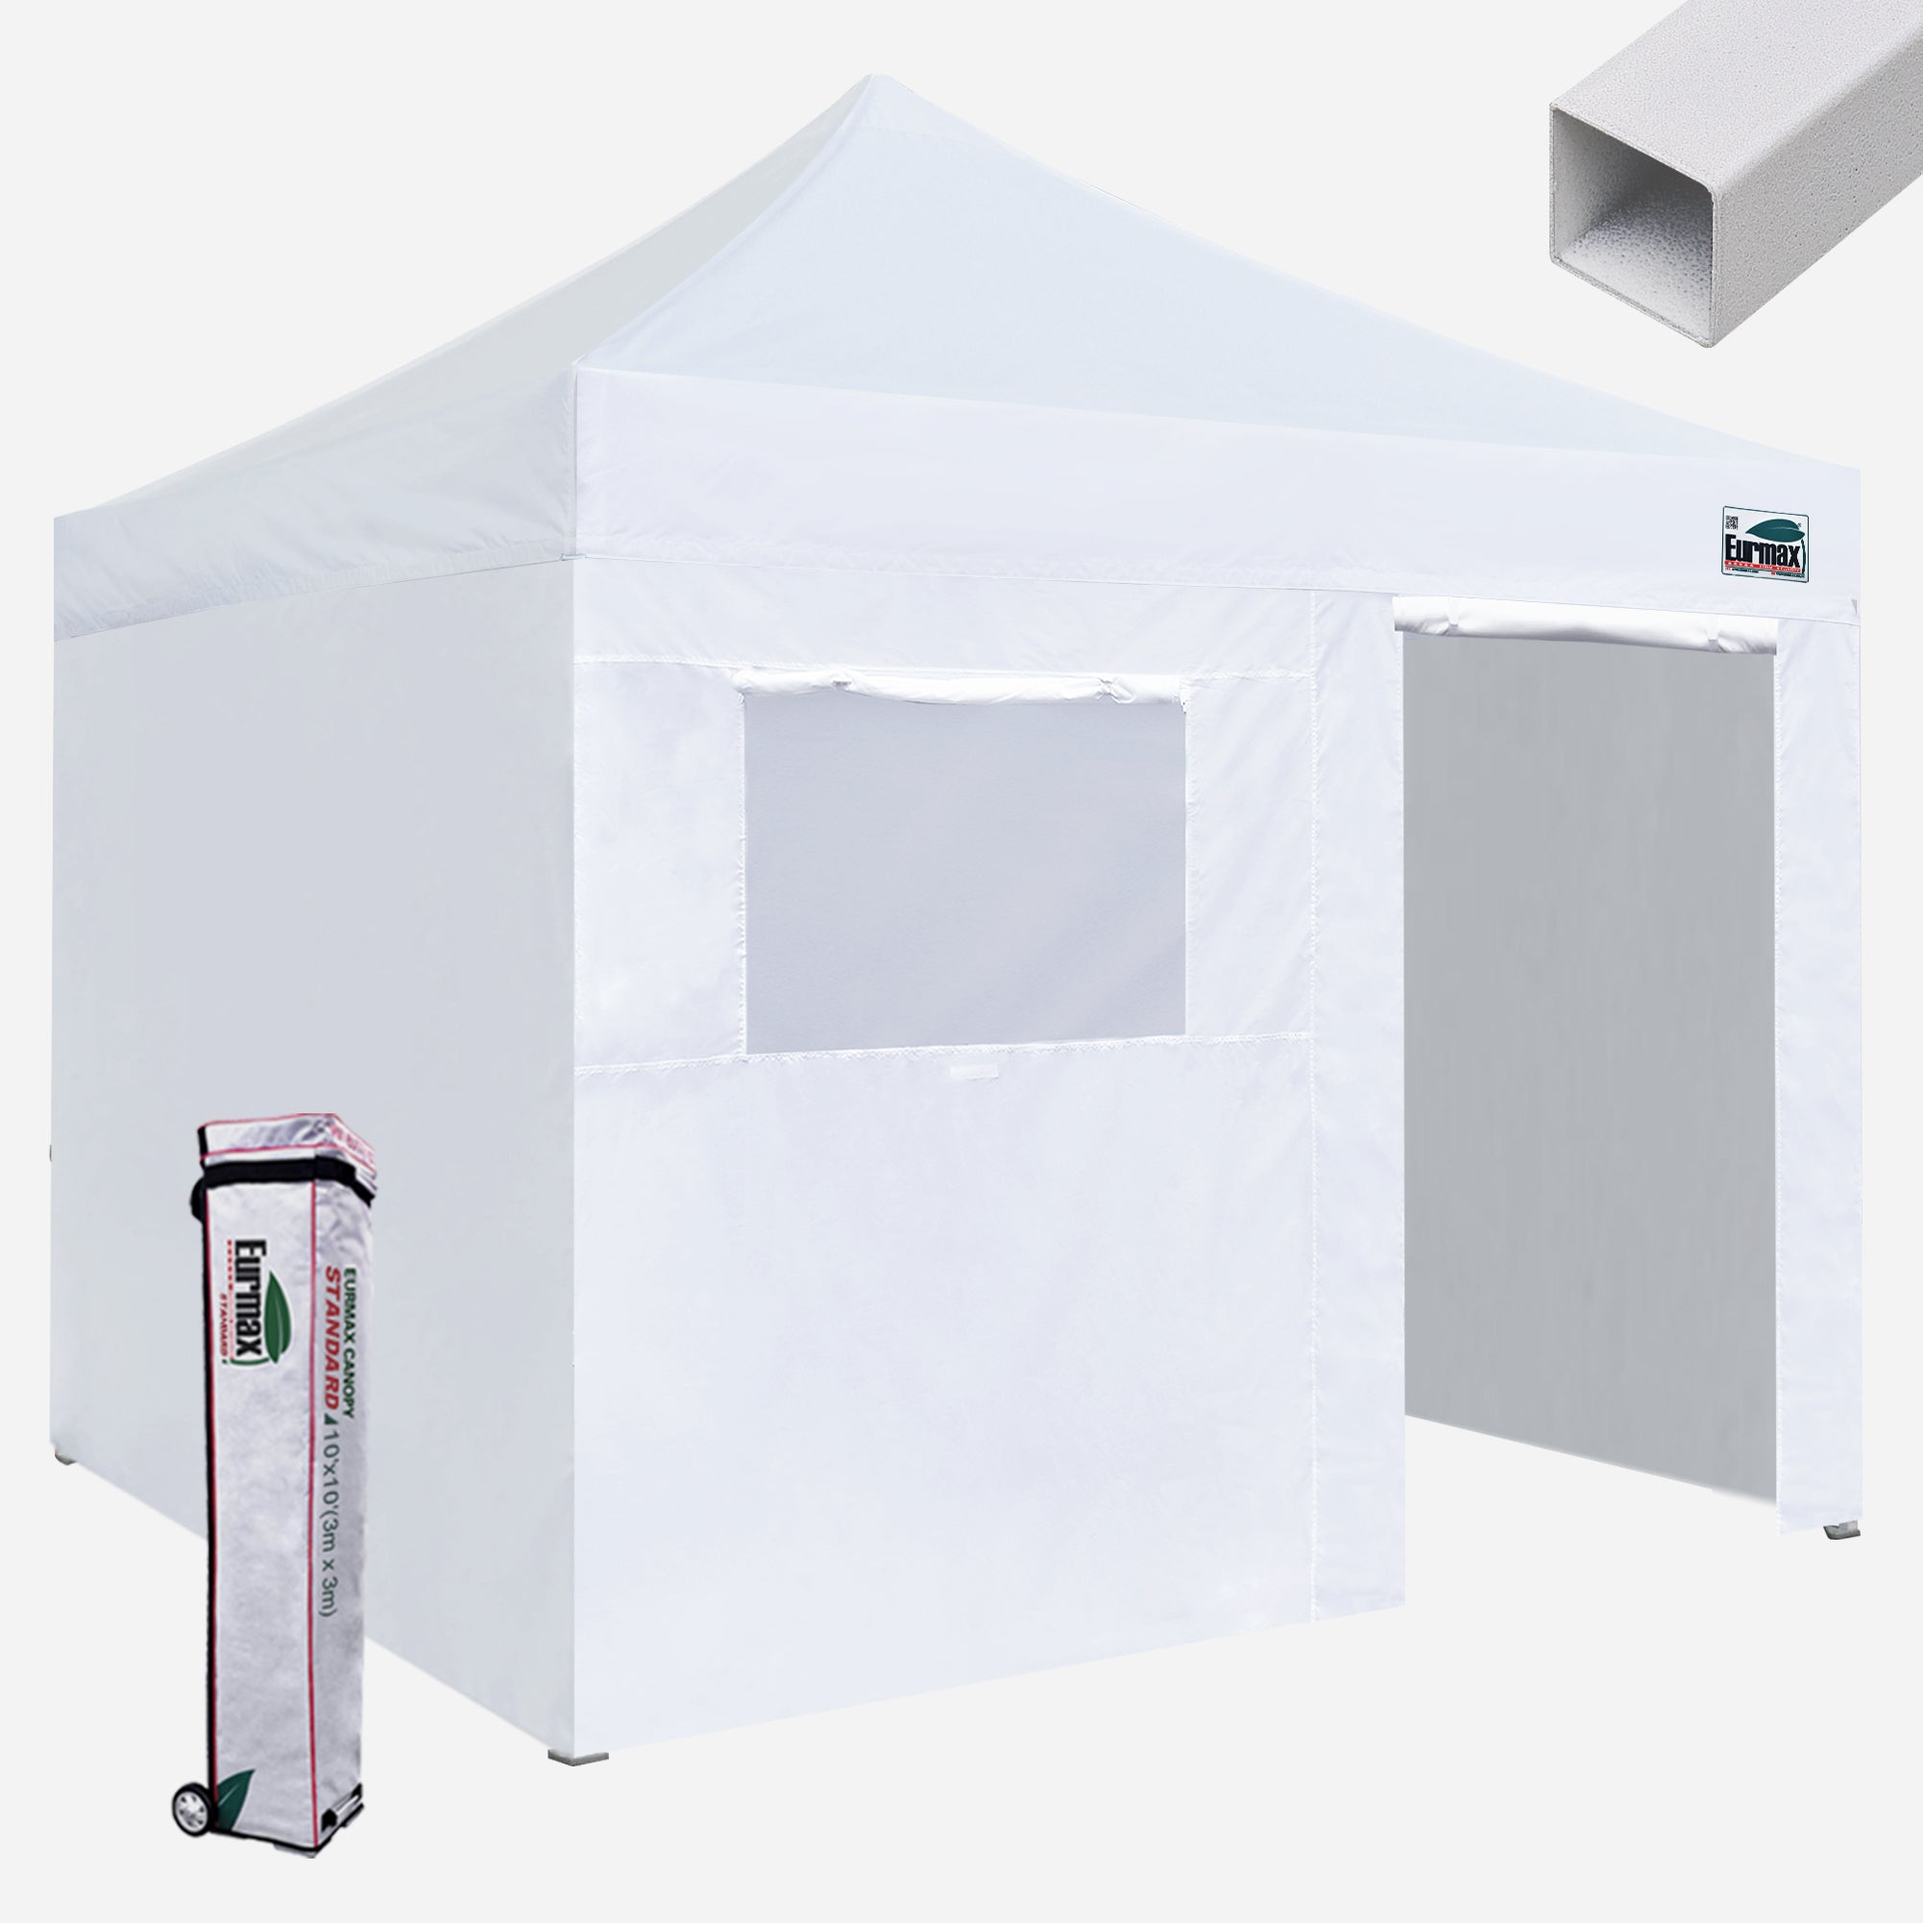
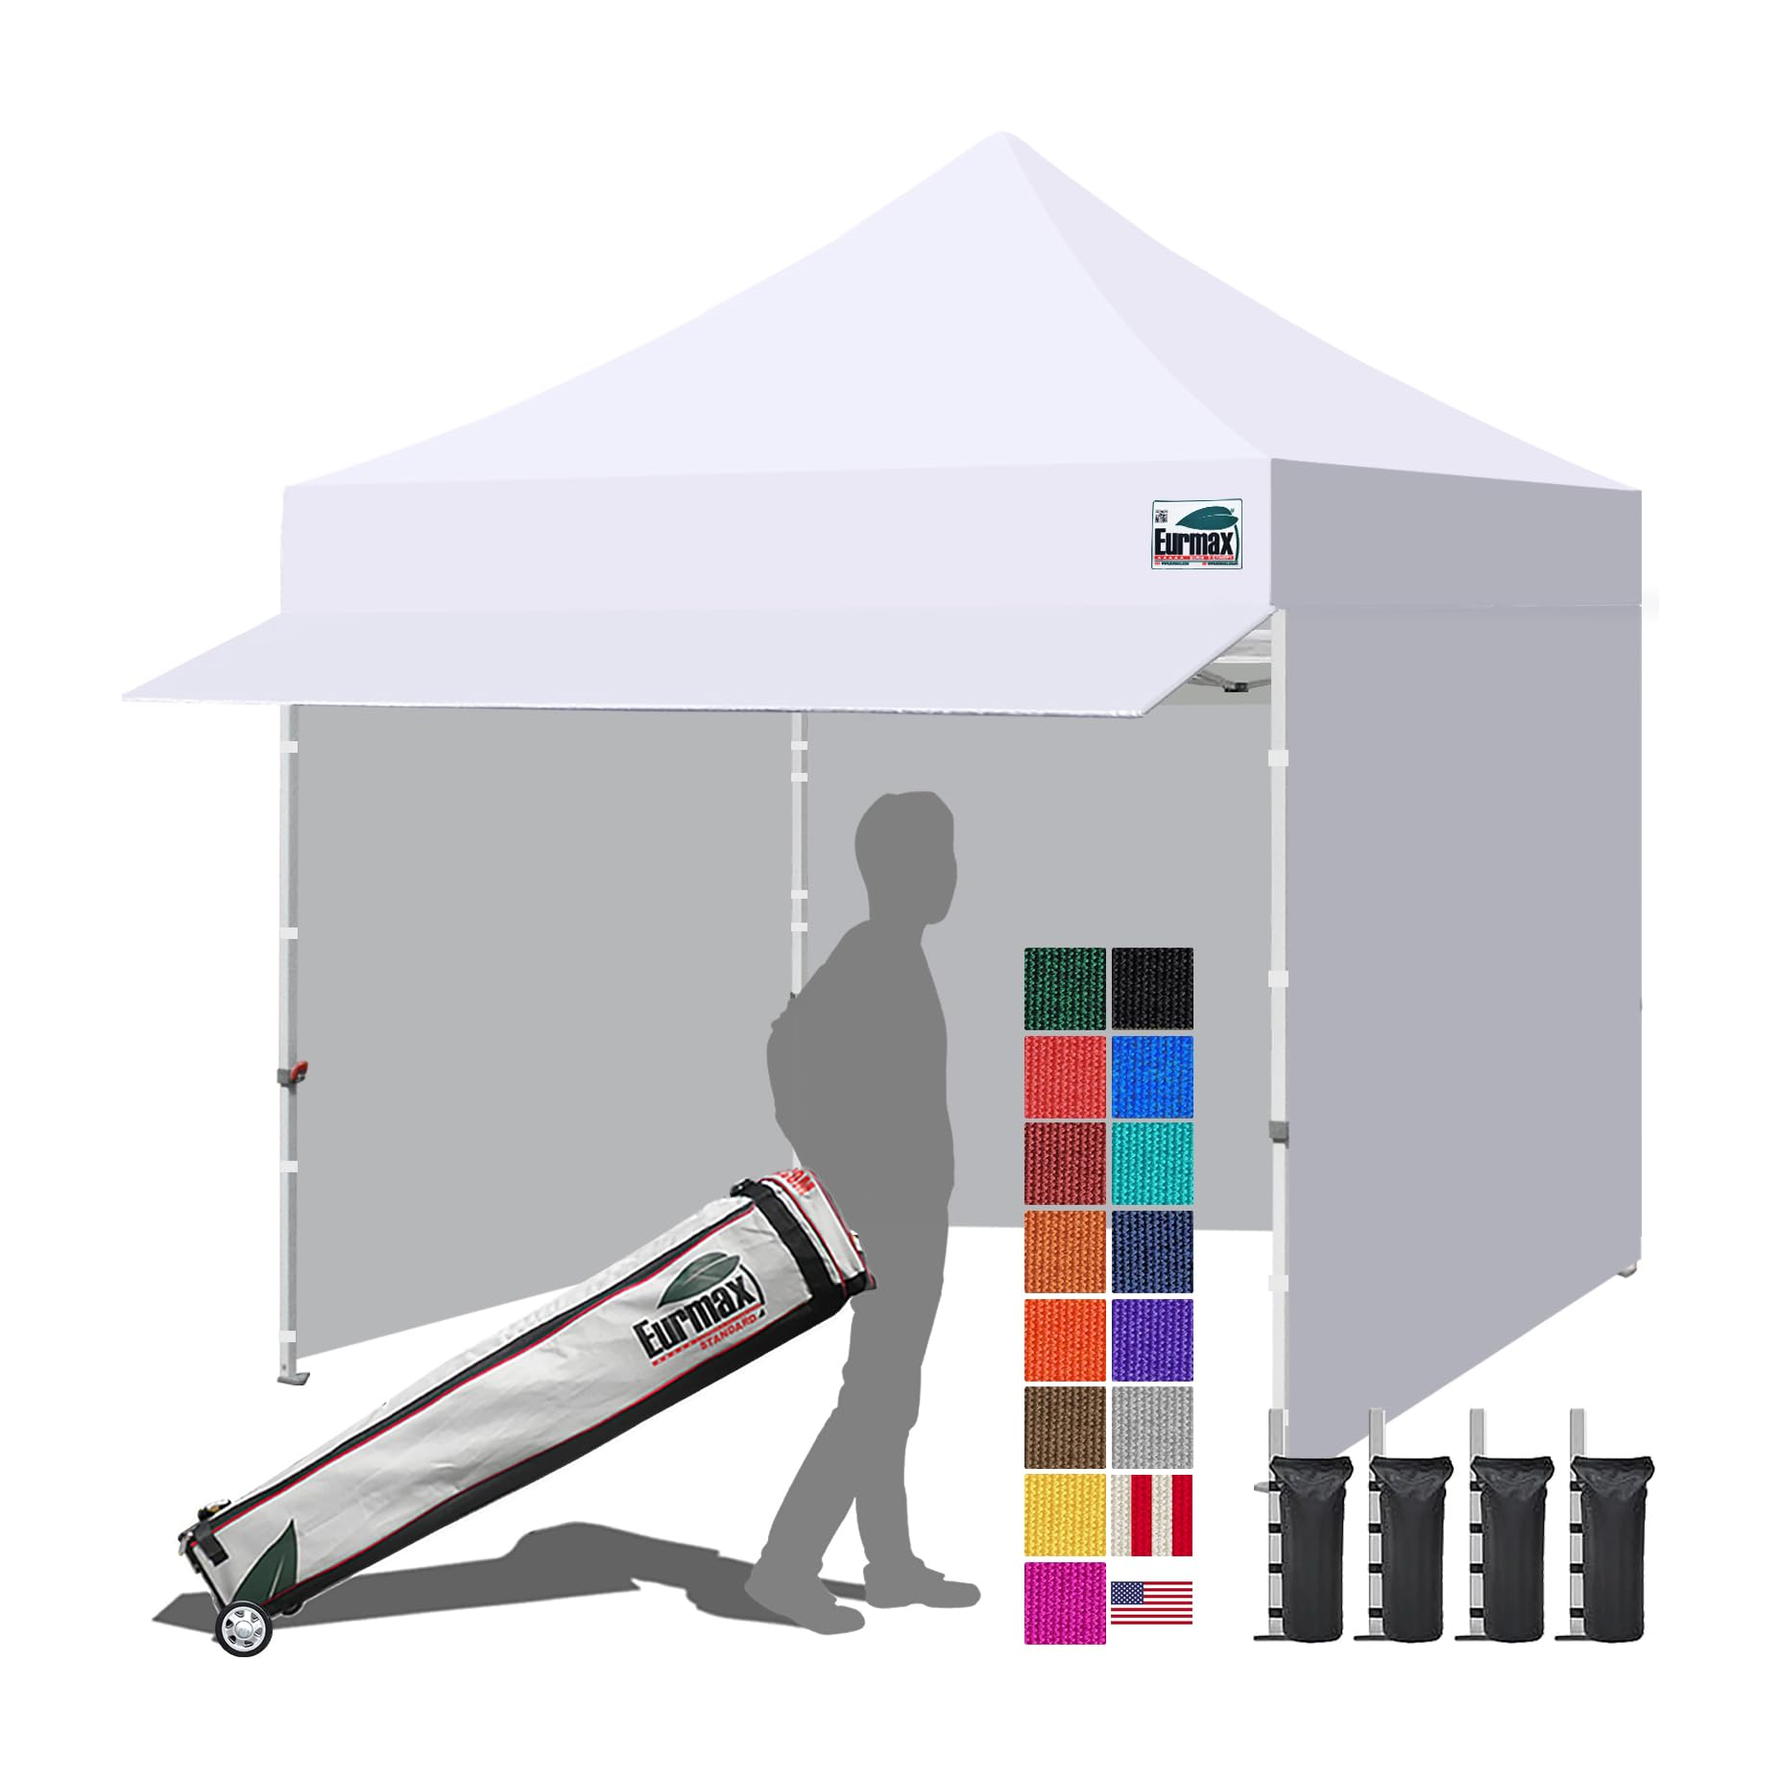
Use supplied covered tent photo in Basecamp selector

diff --git a/basecamp.js b/basecamp.js
@@ -1,7 +1,7 @@
 /* One card per product family; selection changes only the reference image and details. */
 const tentVariants = {
   open: { image: '/images/field-village-canopy.png', alt: 'Eurmax 10 by 10 foot open canopy tent', rate: '$35 / day', details: 'Open 10 × 10 ft canopy. One available.' },
-  covered: { image: '/images/tent-10x10-covered.jpg', alt: 'Eurmax 10 by 10 foot canopy with sidewall enclosure', rate: '$35 / day', details: 'Covered 10 × 10 ft canopy with sidewall enclosure. One available.' },
+  covered: { image: '/images/tent-10x10-covered.jpg?v=20261109-grant-photo', alt: 'Eurmax 10 by 10 foot canopy with sidewalls', rate: '$35 / day', details: 'Covered 10 × 10 ft canopy with sidewall enclosure. One available.' },
   large: { image: '/images/tent-10x20.jpg', alt: 'Eurmax 10 by 20 foot open canopy tent', rate: 'Contact Us for rate', details: 'Larger 10 × 20 ft canopy. One available. Swap it into the Basecamp package for +$20 / day ($130 / day total).' },
 };
 const tableVariants = {
@@ -19,7 +19,7 @@ function bindVariant(selectId, imageId, detailsId, variants, rateId) {
     if (!variant) return;
     image.src = variant.image;
     image.alt = variant.alt;
-    image.classList.toggle('basecamp-reference-photo', variant.image.endsWith('.jpg'));
+    image.classList.toggle('basecamp-reference-photo', variant.image.split('?')[0].endsWith('.jpg'));
     details.textContent = variant.details;
     if (rateId) document.getElementById(rateId).textContent = variant.rate;
   };

diff --git a/basecamp.html b/basecamp.html
@@ -14,7 +14,7 @@
 
 <script async src="https://tally.so/widgets/embed.js"></script>
 <script src="/script.js?v=rental-cart-v1" defer></script>
-<script src="/basecamp.js?v=20261109" defer></script>
+<script src="/basecamp.js?v=20261109-covered-photo" defer></script>
 
 <link rel="stylesheet" href="/light.css?v=dark-20261104">
 <link rel="stylesheet" href="/gear-page.css?v=16-basecamp">

diff --git a/images/SOURCES.md b/images/SOURCES.md
@@ -1,9 +1,9 @@
 # Basecamp variant reference images
 
 Existing Shop photos are retained for the open 10x10 canopy and 6 ft table.
-The selectors also use these manufacturer reference images, downloaded November 9, 2026:
+The selectors also use these reference images, downloaded November 9, 2026:
 
-- `tent-10x10-covered.jpg`: https://www.eurmax.com/products/standard-10x10-steel-canopy-tent-with-4-zipper-walls
+- `tent-10x10-covered.jpg`: https://m.media-amazon.com/images/I/61q3SPAtxkL.jpg (image supplied by Grant; 10 x 10 ft canopy with sidewalls)
 - `tent-10x20.jpg`: https://www.eurmax.com/products/standard-10x20-canopy-tent-select-color
 - `table-8ft.jpg`: https://www.lifetime.com/lifetime-80250g-8-foot-folding-table-professional
 
